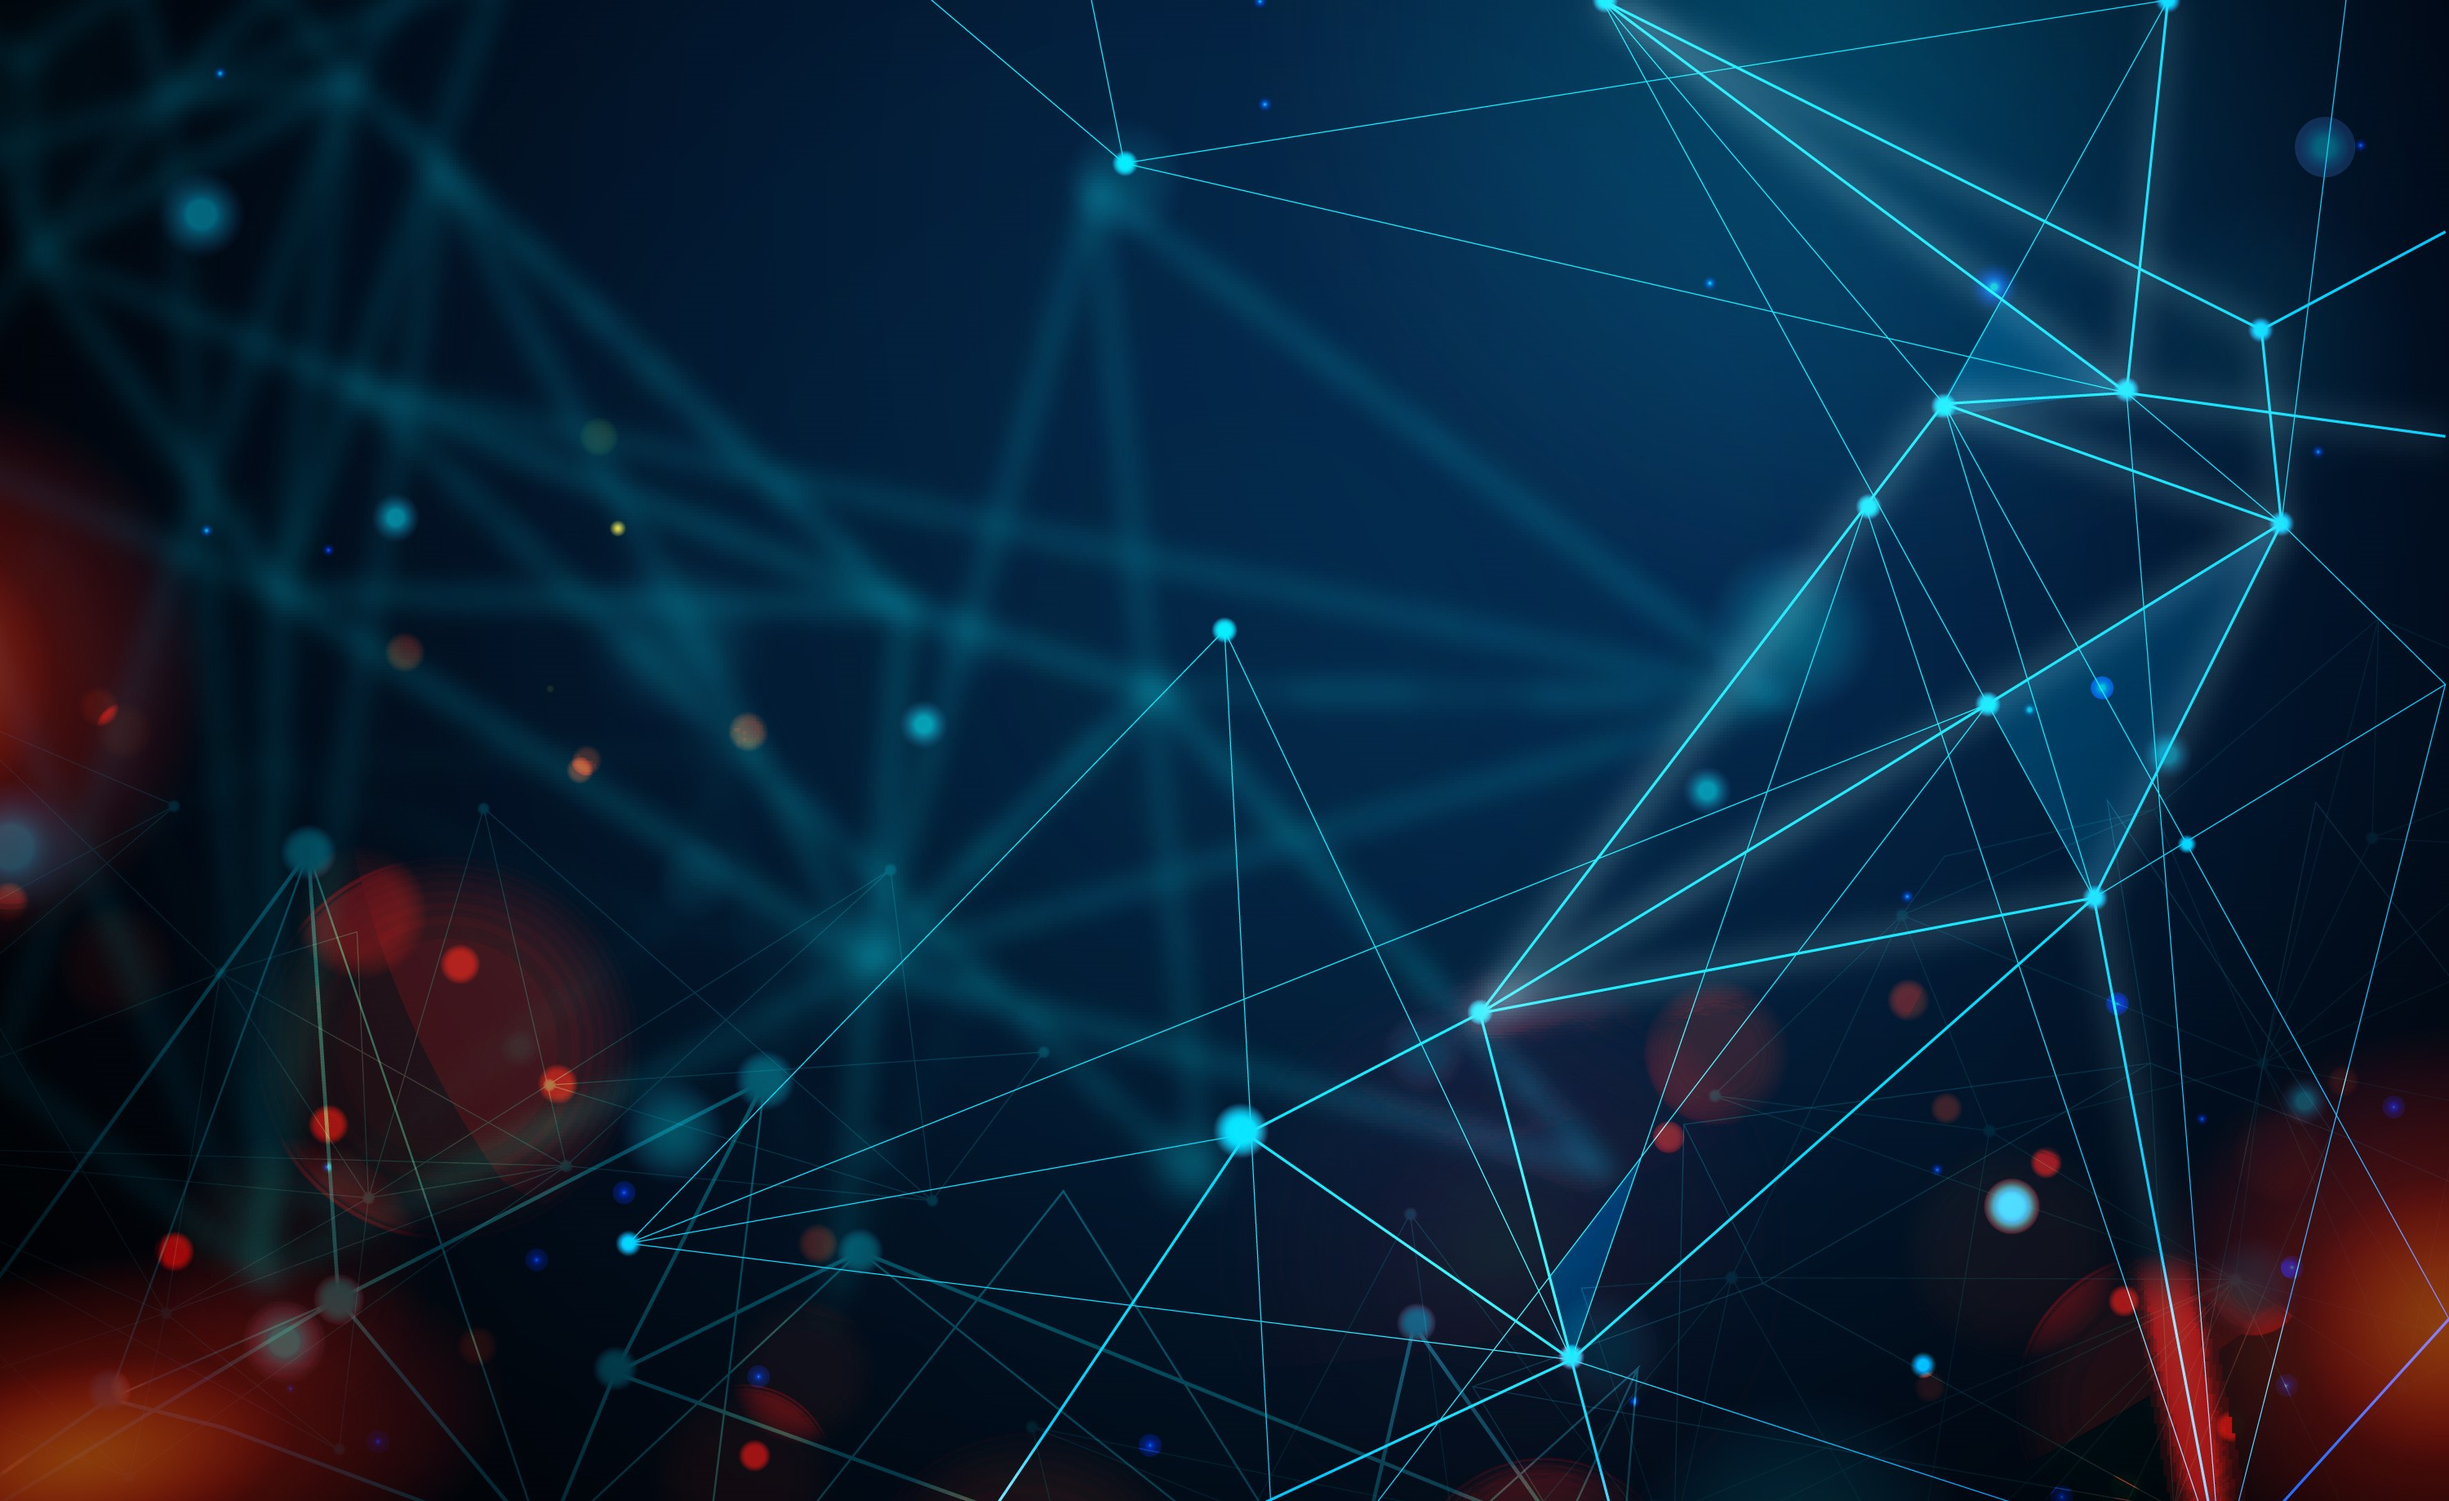
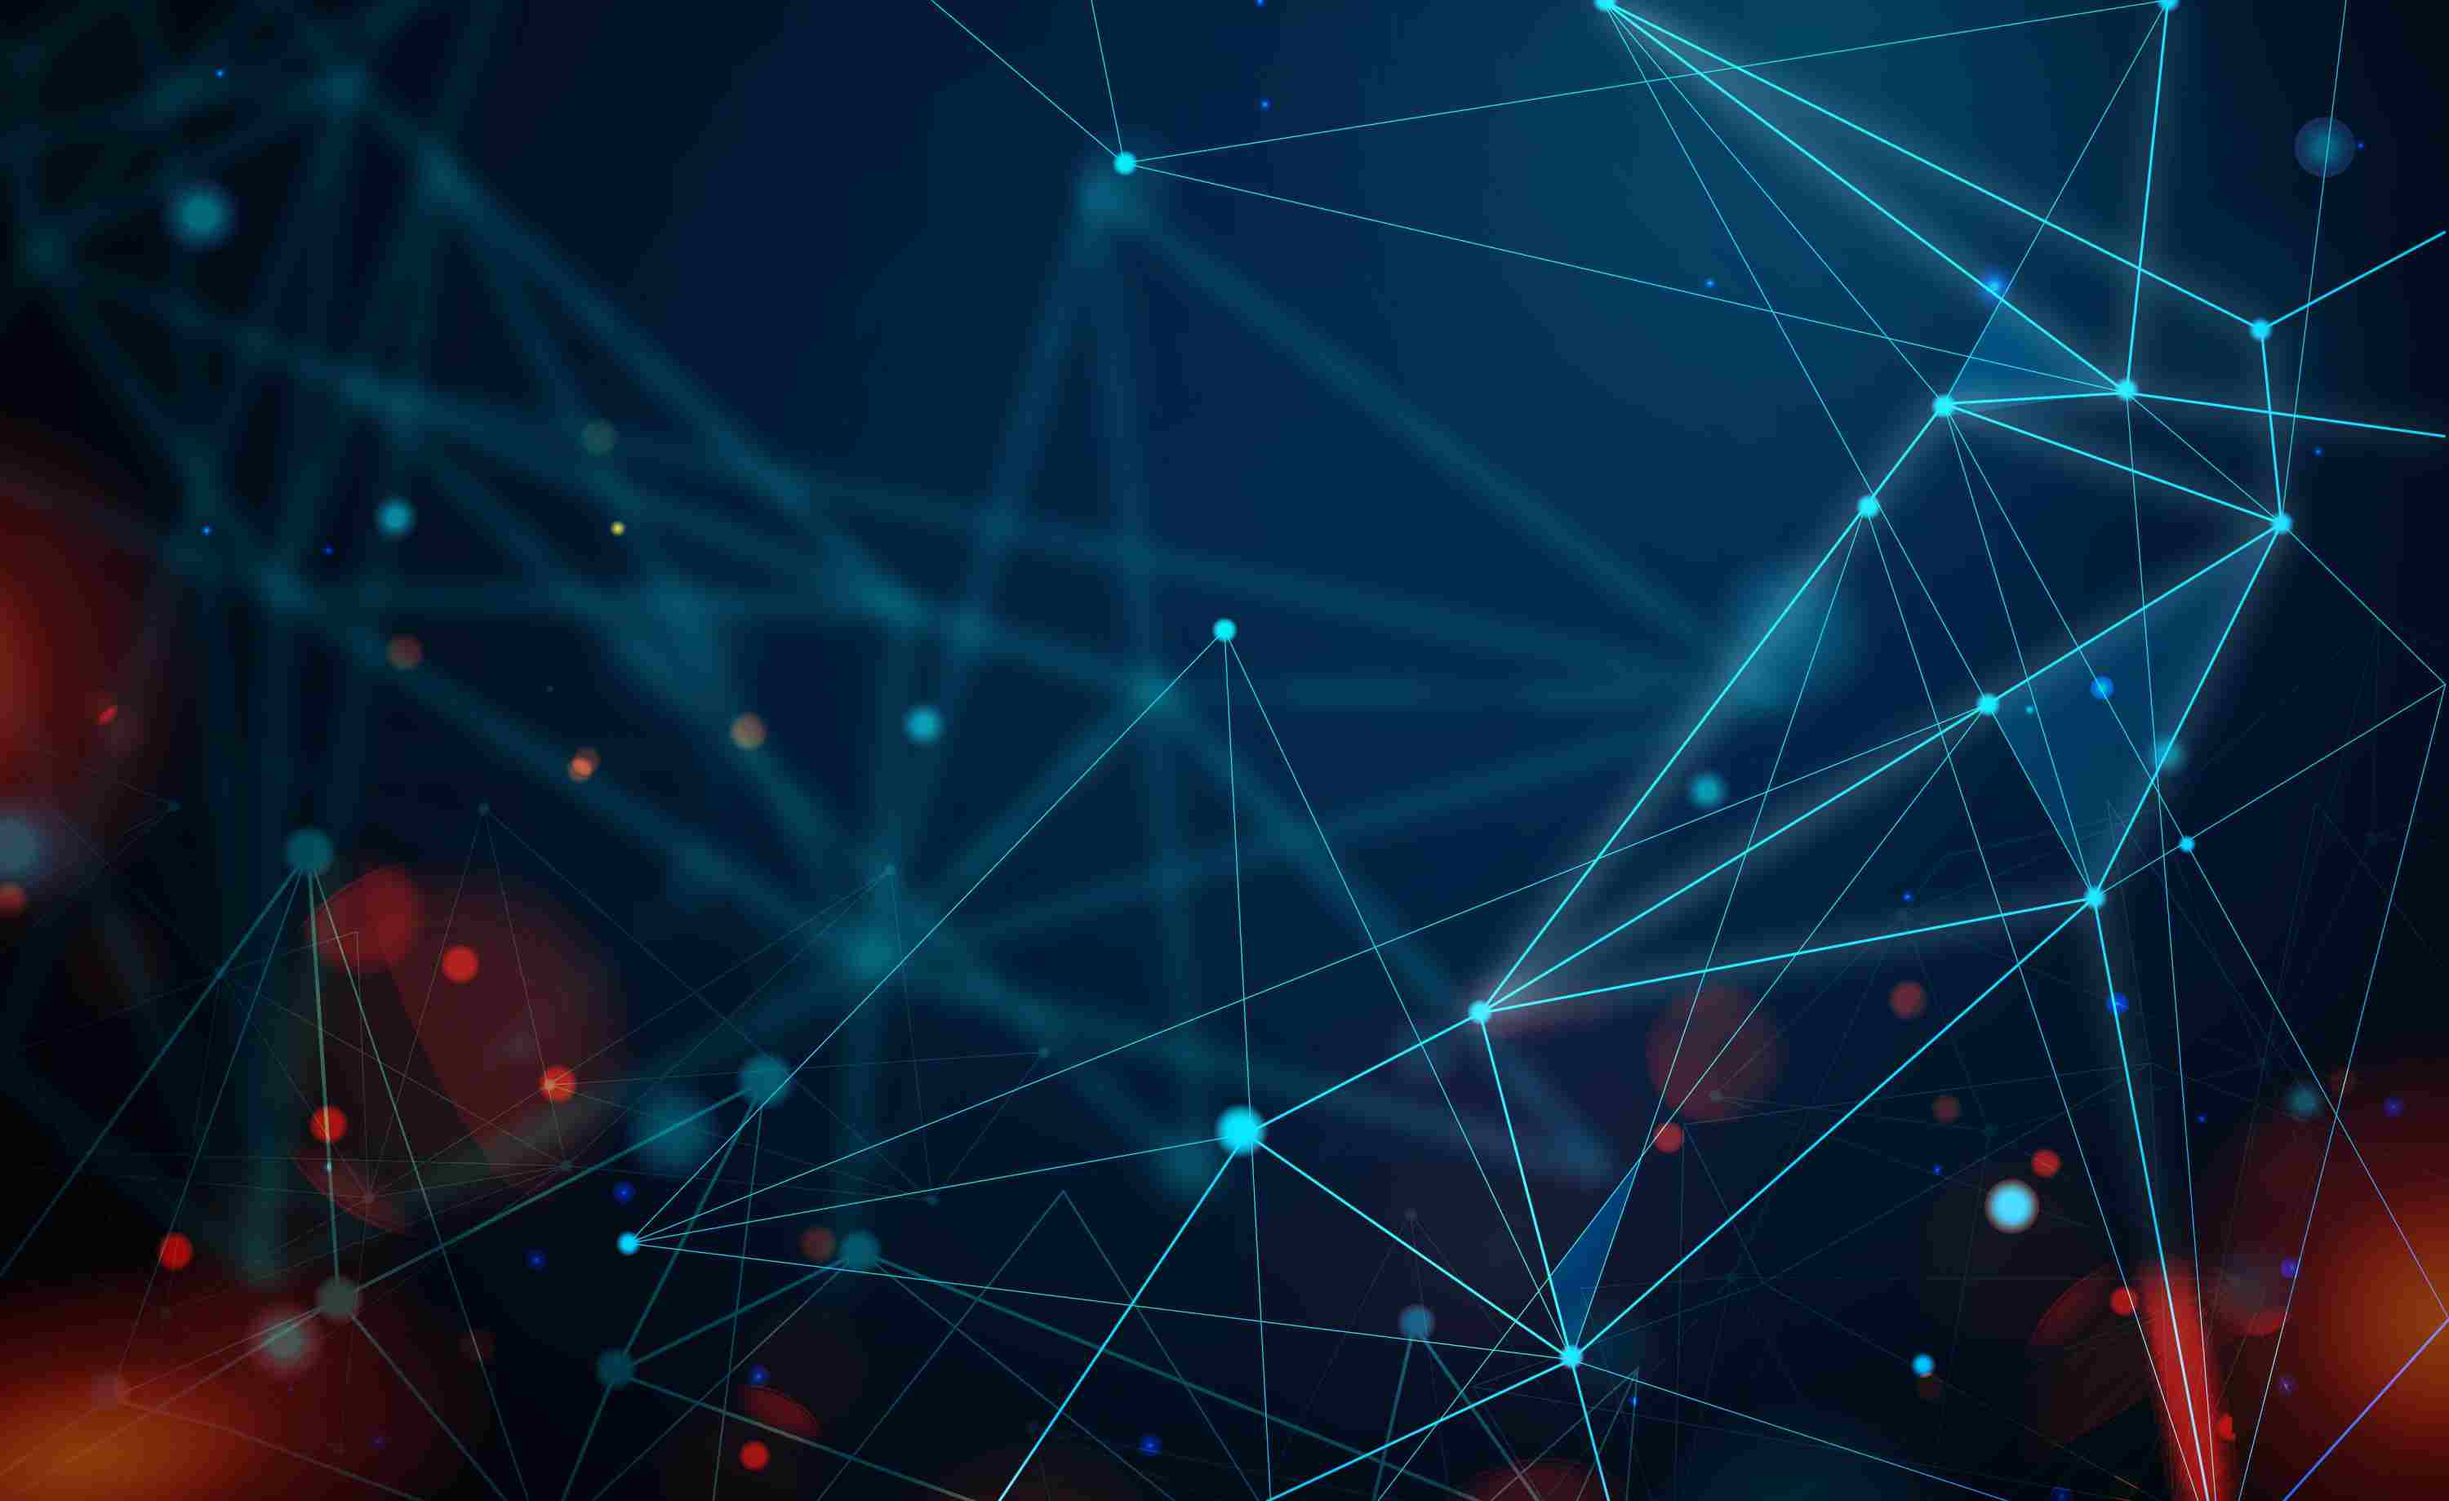
acelerando la web

diff --git a/src/components/NavBar/Grupos.js b/src/components/NavBar/Grupos.js
@@ -1,7 +1,7 @@
 import React, { Component } from "react";
 import {themeBlack} from "../themes"
 
-import paginaLibro  from "../../images/rrss1b.jpg"
+import paginaLibro  from "../../images/rrss1.jpg"
 import grupoFace    from "../../images/rrss2b.jpg"
 import grupoWhats   from "../../images/rrss3b.jpg"
 import canal        from "../../images/rrss4b.jpg"
